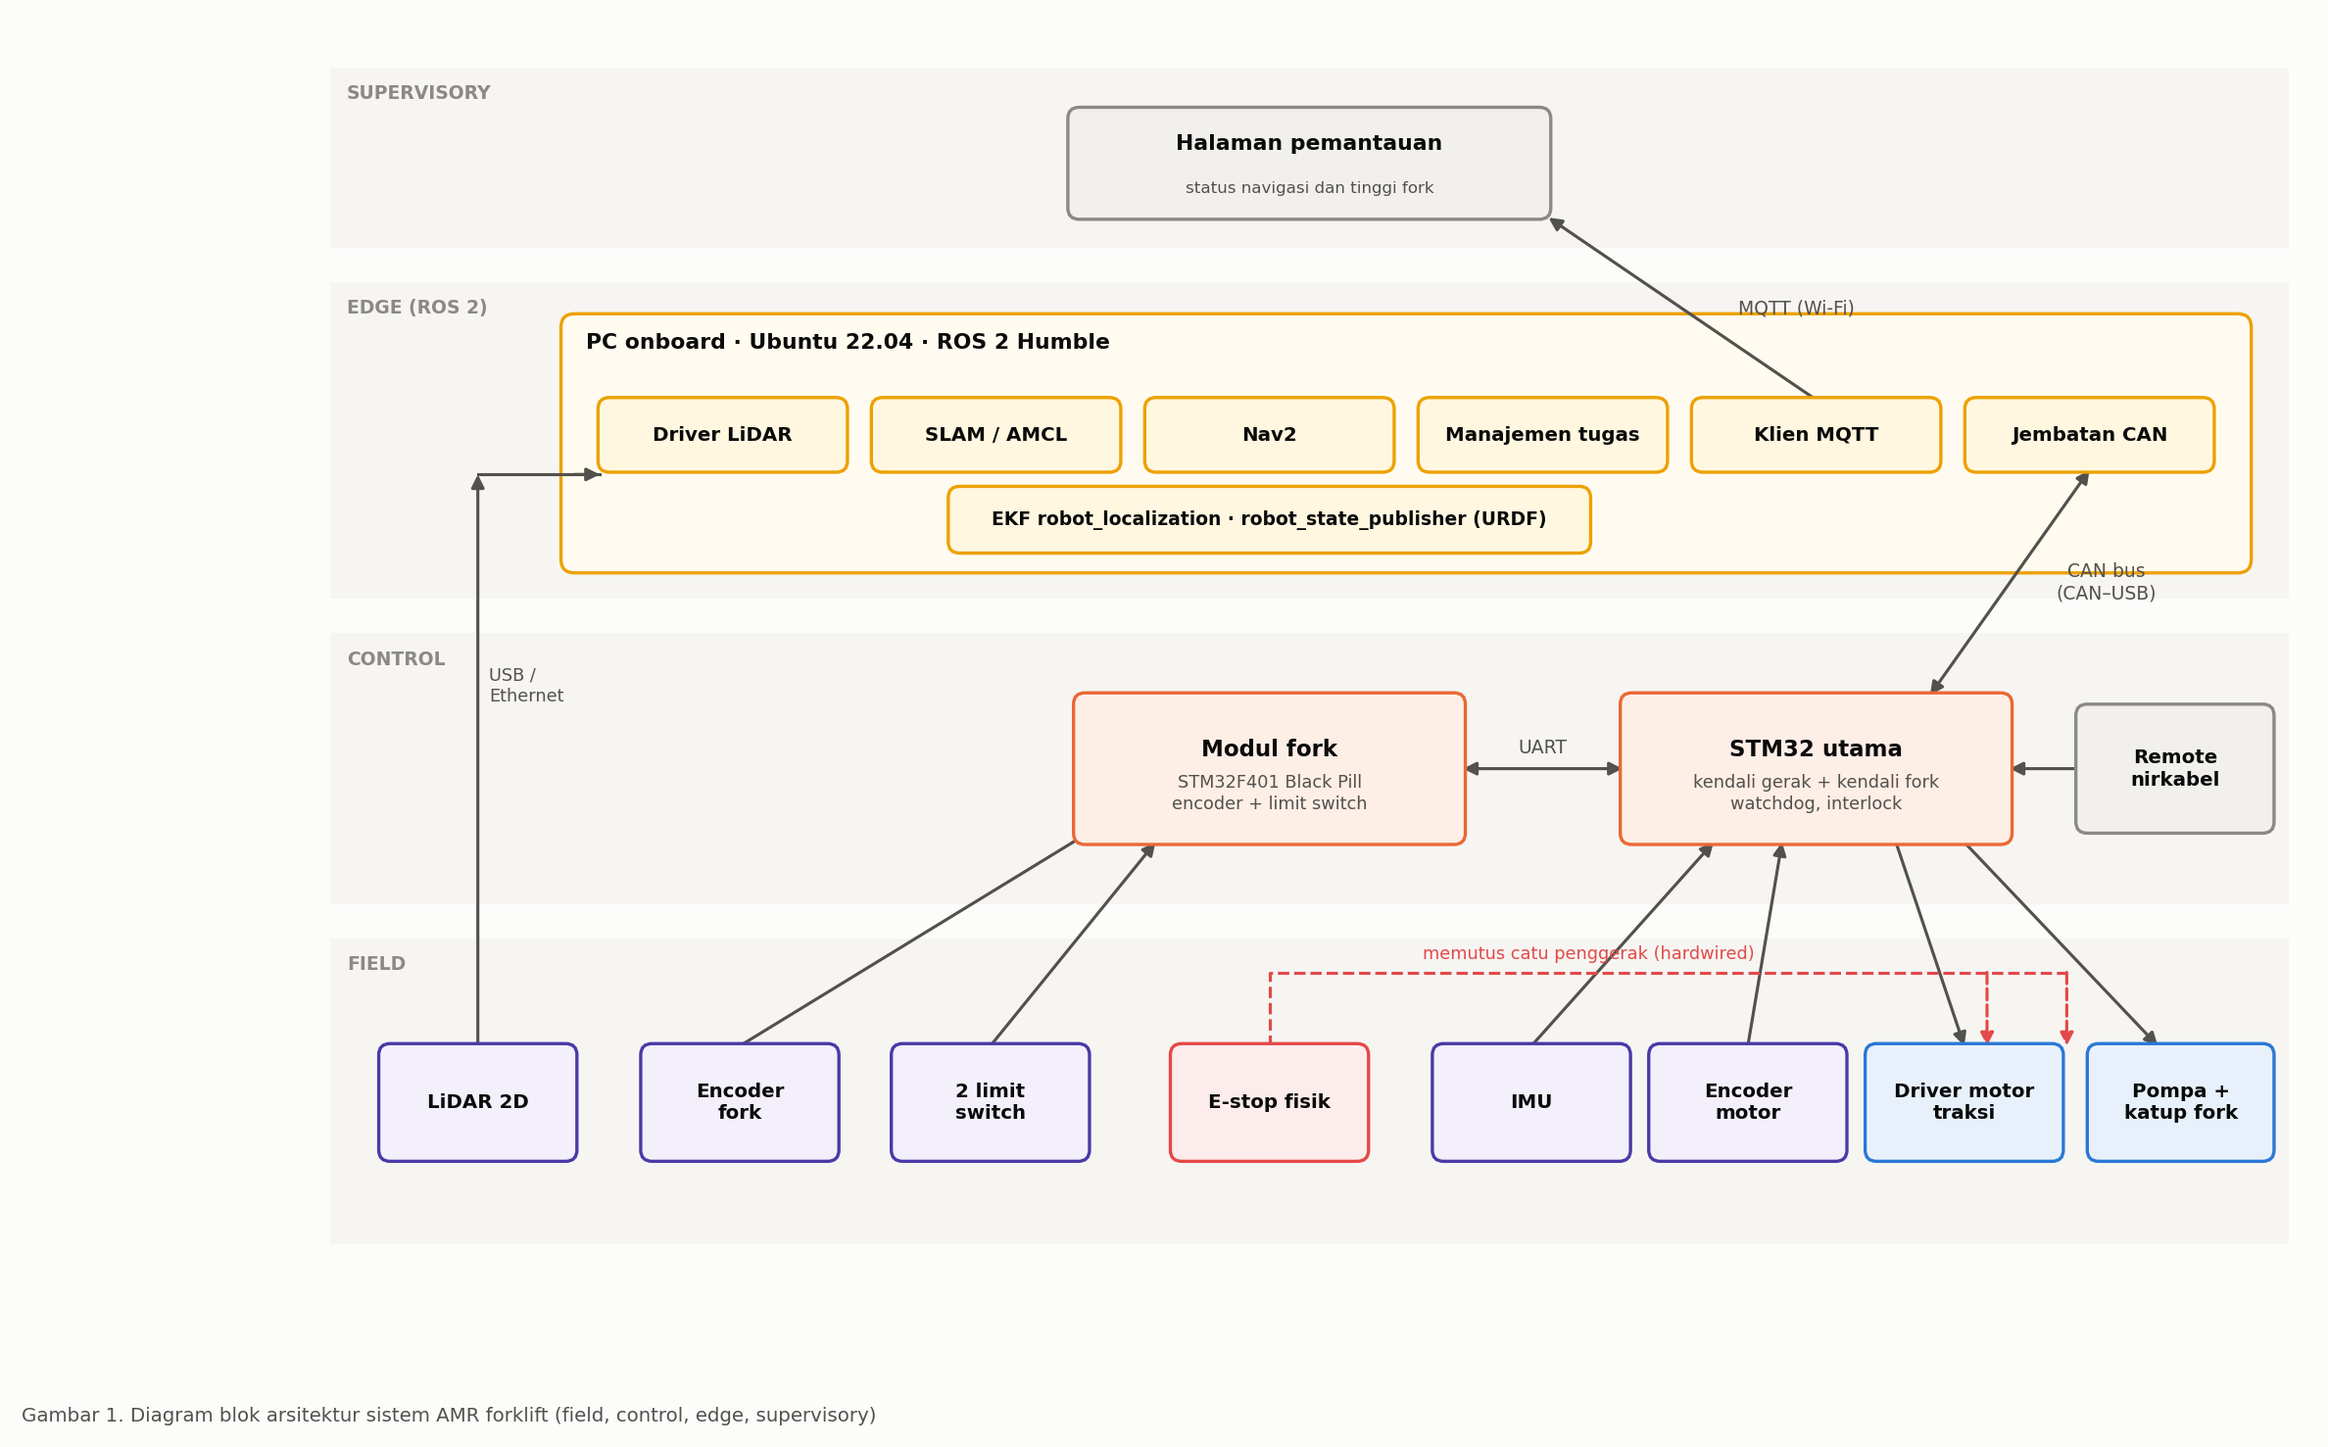
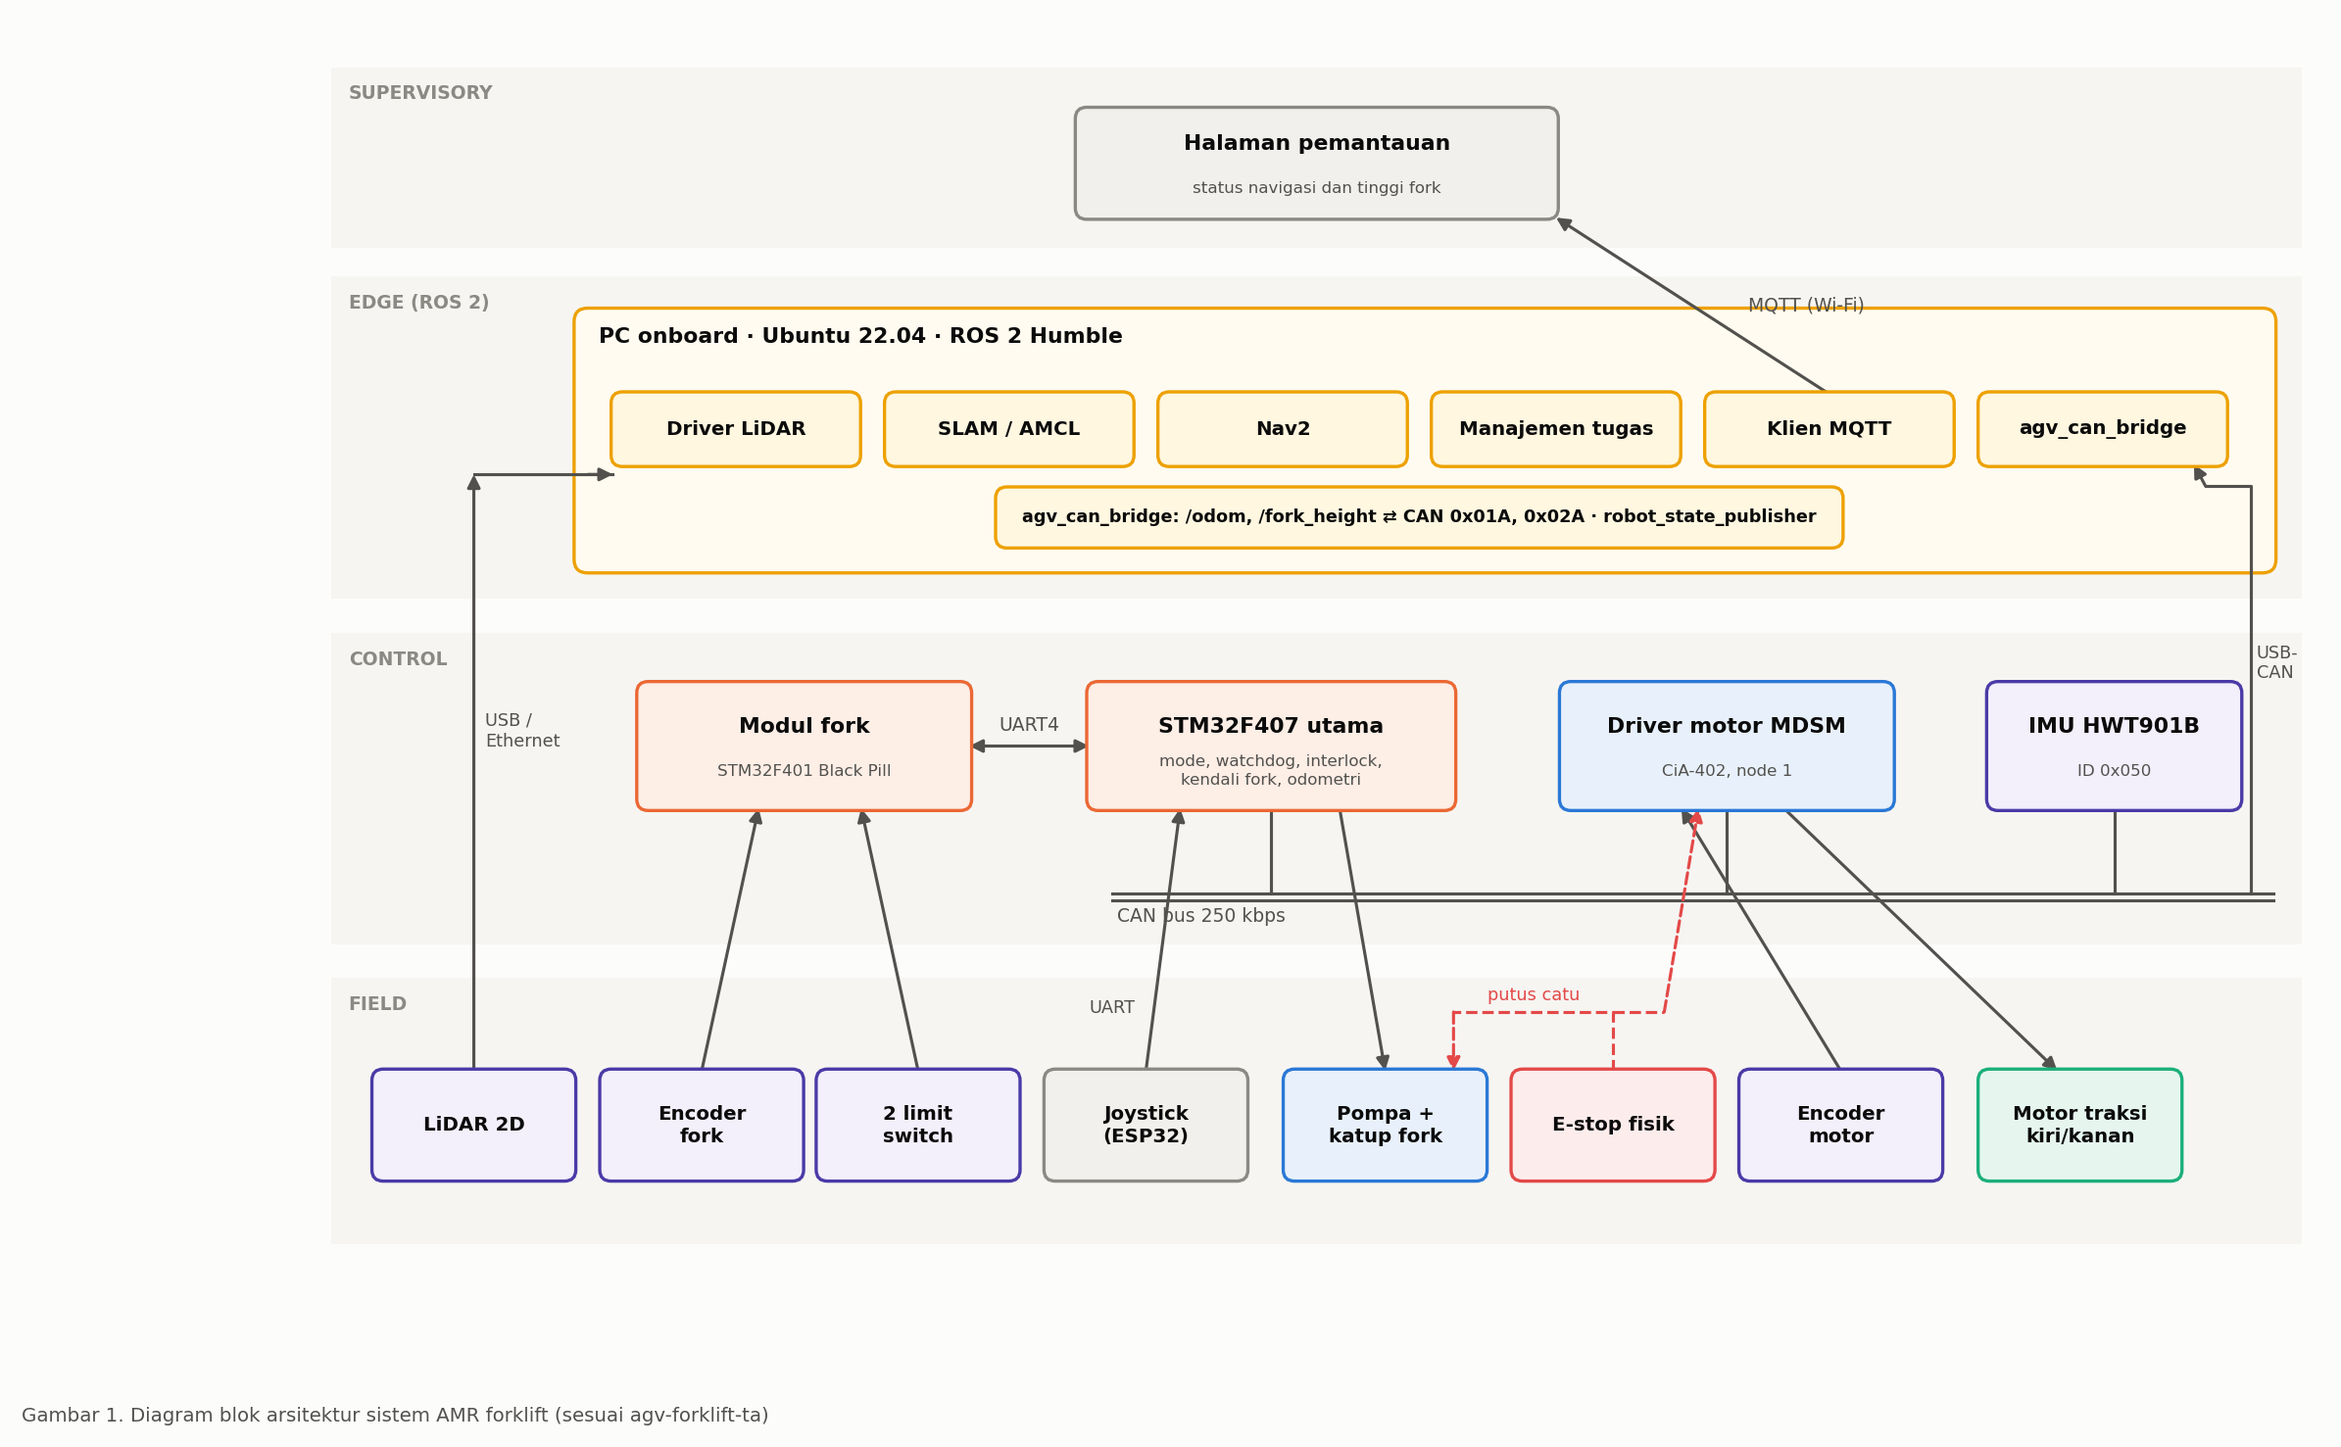
Week 3: sesuaikan dengan agv-forklift-ta (peta ID CAN, driver MDSM kontrol kecepatan sendiri, FAST-LIO/DLIO tidak dipakai)

diff --git a/README.md b/README.md
@@ -31,9 +31,9 @@ Periode 12/10/2026 s.d. 16/10/2026 (tahap Perancangan), sesuai logbook individu 
 
 **Kendala dan solusi:**
 
-1. Format pesan CAN STM32 utama belum diketahui, sehingga decoder `ros2_socketcan` masih memakai ID contoh dan belum diuji di bus forklift. Solusi: identifikasi ID dan format data dengan `candump` di forklift (minggu 4).
-2. FAST-LIO dan DLIO membutuhkan LiDAR 3D, sedangkan forklift memakai LiDAR 2D. Solusi: tetap memakai slam_toolbox, AMCL, dan EKF encoder + IMU; LIO dicatat sebagai opsi pengembangan.
-3. Firmware dan wiring STM32 utama belum diperiksa, sehingga kendali kecepatan per roda (PI) dan jalur IMU/encoder motor di diagram masih asumsi desain. Solusi: periksa firmware dan wiring STM32 utama di minggu 4 sebelum menyusun DED bagian 04–06.
+1. Format pesan CAN STM32 utama belum diketahui, sehingga decoder `ros2_socketcan` masih memakai ID contoh. Solusi: peta ID dan format data diambil dari repositori proyek AGV `agv-forklift-ta` (`agv_can.py`, sumber firmware `can_pc.h`/`can_pc.c`); lihat [Peta ID CAN Forklift](#peta-id-can-forklift).
+2. FAST-LIO dan DLIO membutuhkan LiDAR 3D, sedangkan forklift memakai LiDAR 2D. Solusi: FAST-LIO dan DLIO tidak dipakai; navigasi tetap memakai slam_toolbox dan AMCL dengan odometri roda + giro IMU.
+3. Kendali kecepatan per roda semula diasumsikan berupa PI di STM32 utama. Solusi: driver motor MDSM (CiA-402, Profile Velocity Mode) sudah mengatur kecepatan sendiri, sehingga STM32F407 cukup mengirim setpoint kecepatan (rpm) tiap roda; blok diagram kendali gerak dan arsitektur sistem diperbarui.
 4. Nilai deadband dan luncuran pompa hidrolik untuk kendali fork belum diketahui. Solusi: identifikasi dari uji step fork di minggu 6–7.
 
 **Capaian target:** Tercapai — target (1), (2), dan (3) tercapai.
@@ -74,7 +74,7 @@ ros2 launch ros2_socketcan socket_can_bridge.launch.xml interface:=can0
 - Field `can_msgs/msg/Frame` = `header`, `id`, `is_rtr`, `is_extended`, `is_error`, `dlc`, `data` (`uint8[8]`)
 - Parameter penting = `interface` (bawaan `can0`), `filters` (bawaan `0:0`, artinya semua ID diterima), `receiver_interval_sec` dan `sender_timeout_sec` (bawaan 0,01 s)
 
-Dengan paket ini, node jembatan tidak perlu membuka socket sendiri. Node cukup mengubah `can_msgs/msg/Frame` menjadi topic bermakna, misalnya `/fork/height`:
+Dengan paket ini, node jembatan tidak perlu membuka socket sendiri. Node cukup mengubah `can_msgs/msg/Frame` menjadi topic bermakna, misalnya tinggi fork dari frame `0x42A`:
 
 ```python
 import struct
@@ -84,18 +84,18 @@ from can_msgs.msg import Frame
 from rclpy.node import Node
 from std_msgs.msg import Float32
 
-ID_FORK_HEIGHT = 0x101  # contoh, mengikuti firmware STM32 utama
+ID_TELE_POWER = 0x42A  # STM32F407 -> PC: daya + tinggi fork (u16 mm, byte 6-7)
 
 
 class ForkDecoder(Node):
     def __init__(self):
         super().__init__('fork_decoder')
-        self.pub = self.create_publisher(Float32, 'fork/height', 10)
+        self.pub = self.create_publisher(Float32, 'fork_height', 10)
         self.create_subscription(Frame, 'from_can_bus', self.on_frame, 50)
 
     def on_frame(self, f):
-        if f.id == ID_FORK_HEIGHT and f.dlc >= 2:
-            height_mm = struct.unpack_from('<H', bytes(f.data))[0]
+        if f.id == ID_TELE_POWER and f.dlc >= 8:
+            height_mm = struct.unpack_from('<H', bytes(f.data), 6)[0]
             self.pub.publish(Float32(data=height_mm / 10.0))
 
 
@@ -108,7 +108,33 @@ if __name__ == '__main__':
     main()
 ```
 
-> **Catatan:** Nama launch file, topic, field message, dan parameter di atas sudah dicek dari paket `ros-humble-ros2-socketcan` 1.4.0. Paket belum dipasang dan kode belum diuji di PC onboard maupun bus CAN forklift. ID `0x101` hanya contoh.
+> **Catatan:** Nama launch file, topic, field message, dan parameter di atas sudah dicek dari paket `ros-humble-ros2-socketcan` 1.4.0. Format `0x42A` diambil dari `agv_can.py`. Kode contoh ini belum diuji di bus CAN forklift; di forklift, peran ini sudah dijalankan oleh `agv_can_bridge.py`.
+
+### Peta ID CAN Forklift
+
+Sumber: `agv-forklift-ta/ibe-agv/stm32_firmware/agv_can.py` (mengikuti firmware `Core/Inc/can_pc.h` dan `Core/Src/can_pc.c`). Bus CAN1 250 kbps, ID 11 bit, data *little-endian*. Node PC = 10 (`0x0A`).
+
+**PC → STM32F407**
+
+- `0x00A` ESTOP = `data[0] = 0x55`
+- `0x01A` CMD (50 Hz) = `i16 v` mm/s, `i16 ω` mrad/s, `u8 mode` (1 = jalan), `u8 lampu`, `u8 beacon`, `u8 counter`
+- `0x02A` FORK = `u16` target tinggi dalam mm (firmware membatasi 0–250 cm)
+
+**STM32F407 → PC**
+
+- `0x40A` pose (30 Hz) = `f32 x`, `f32 y`
+- `0x41A` gerak (30 Hz) = `i16 θ`, `i16 yaw`, `i16 v`, `i16 ω` (dibagi 1000)
+- `0x42A` daya (10 Hz) = tegangan, arus, ..., `u16` tinggi fork (mm)
+- `0x43A` status (10 Hz) = flag (motor aktif, perintah PC baru, fork diam, E-stop, kalibrasi IMU), tombol, status pompa fork
+- `0x44A` perintah aktif (30 Hz) = v dan ω yang sedang dijalankan
+- `0x45A` joystick mentah (10 Hz)
+
+**Langsung dari perangkat lain di bus**
+
+- `0x181`, `0x281`, `0x381`, `0x481` = TPDO driver MDSM (node 1): statusword, posisi, torsi, kecepatan roda
+- `0x050` = IMU HWT901B (percepatan, giro, sudut)
+
+Di ROS 2, `agv_can_bridge.py` menerbitkan `/odom` dan `/fork_height`, serta menerima `/cmd_vel_agv` dan `/cmd_fork`.
 
 ### Kondisi Error Bus
 
@@ -124,7 +150,7 @@ ip -details -statistics link show can0
 
 # Pulih otomatis dari bus-off setelah 100 ms
 sudo ip link set can0 down
-sudo ip link set can0 type can bitrate 500000 restart-ms 100
+sudo ip link set can0 type can bitrate 250000 restart-ms 100
 sudo ip link set can0 up
 ```
 
@@ -144,7 +170,7 @@ Log CAN berguna untuk mengembangkan decoder di meja kerja tanpa menyalakan forkl
 Node minggu 2 membuka bus CAN sendiri, lalu mengurai frame di node yang sama. Dengan `ros2_socketcan`, akses bus dipisah ke node resmi, sehingga decoder cukup mengolah `can_msgs/msg/Frame`. Decoder juga bisa diuji dengan rosbag yang berisi `/from_can_bus`.
 
 **Apa yang terjadi jika kabel CAN terlepas saat forklift berjalan?**
-Pengiriman gagal terus sehingga node bisa masuk error passive lalu bus-off. Karena itu STM32 utama perlu watchdog: jika tidak ada perintah gerak dari PC dalam 1 detik, forklift berhenti (SP-09).
+Pengiriman gagal terus sehingga node bisa masuk error passive lalu bus-off. Karena itu STM32 utama punya watchdog: jika perintah `0x01A` dari PC sudah basi, forklift berhenti (target SP-09: ≤ 1 s).
 
 **Kenapa perlu `restart-ms`?**
 Tanpa `restart-ms`, antarmuka yang sudah bus-off tetap mati sampai di-*restart* manual. Dengan `restart-ms 100`, kernel mencoba memulihkan bus otomatis.
@@ -165,7 +191,7 @@ Tanpa `restart-ms`, antarmuka yang sudah bus-off tetap mati sampai di-*restart* 
 
 ### Loosely vs Tightly Coupled
 
-- Loosely coupled = Tiap sensor menghitung hasilnya sendiri, lalu hasilnya digabung. Contoh: EKF `robot_localization` yang direncanakan di forklift
+- Loosely coupled = Tiap sensor menghitung hasilnya sendiri, lalu hasilnya digabung. Contoh: EKF `robot_localization`, atau odometri forklift yang menggabungkan posisi roda dengan arah dari giro IMU
 - Tightly coupled = Data mentah IMU dan titik LiDAR diolah dalam satu estimator. Lebih akurat dan tahan kondisi sulit. FAST-LIO dan DLIO termasuk jenis ini
 
 ### FAST-LIO (HKU MARS Lab)
@@ -184,7 +210,7 @@ Tanpa `restart-ms`, antarmuka yang sudah bus-off tetap mati sampai di-*restart* 
 
 ### Relevansi untuk Forklift
 
-FAST-LIO dan DLIO dirancang untuk **LiDAR 3D** (misalnya Livox atau Ouster). Forklift memakai **LiDAR 2D** yang hanya memindai satu bidang, sehingga tidak ada informasi ketinggian untuk mengoreksi gerak 3D. Untuk proyek ini tetap dipakai slam_toolbox (pemetaan) dan AMCL (lokalisasi) dengan EKF encoder + IMU. FAST-LIO atau DLIO menjadi opsi pengembangan jika LiDAR diganti ke 3D.
+FAST-LIO dan DLIO dirancang untuk **LiDAR 3D** (misalnya Livox atau Ouster). Forklift memakai **LiDAR 2D** yang hanya memindai satu bidang, sehingga tidak ada informasi ketinggian untuk mengoreksi gerak 3D. **Keputusan: FAST-LIO dan DLIO tidak dipakai.** Navigasi tetap memakai slam_toolbox (pemetaan) dan AMCL (lokalisasi), dengan odometri dari posisi roda + giro IMU.
 
 ### Hasil Belajar
 
@@ -262,13 +288,13 @@ Ada dua loop kendali: **kendali ketinggian fork** di STM32 utama, dan **kendali 
 
 ![Blok diagram kendali ketinggian fork](images/kendali-fork.png)
 
-- Referensi r = Target tinggi fork dari ROS 2 (`/fork/target`), dikirim lewat CAN ke STM32 utama
+- Referensi r = Target tinggi fork dari ROS 2 (`/cmd_fork`), dikirim lewat CAN `0x02A` ke STM32F407
 - Error e = r − y
-- Kontroler = Logika on/off dengan deadband dan cutoff prediktif di STM32 utama
+- Kontroler = Logika on/off dengan deadband dan cutoff prediktif di STM32F407
 - Sinyal kendali u = NAIK (pompa ON), TURUN (katup solenoid ON), atau DIAM
 - Plant = Silinder hidrolik dan fork
 - Gangguan = Luncuran pompa: fork masih bergerak sebentar setelah pompa dimatikan (risiko R-03)
-- Umpan balik y = Tinggi fork dari encoder inkremental, dihitung modul fork STM32F401, dikirim lewat UART
+- Umpan balik y = Tinggi fork dari encoder inkremental, dihitung modul fork STM32F401, dikirim lewat UART4; STM32F407 meneruskannya ke ROS 2 di frame `0x42A` (`/fork_height`)
 - Interlock = Limit switch atas melarang NAIK, limit switch bawah melarang TURUN dan menjadi titik nol (homing)
 
 Logika kendali (usulan):
@@ -290,10 +316,11 @@ Nilai deadband, luncuran naik, dan luncuran turun belum diketahui. Nilai ini dii
 ![Blok diagram kendali gerak](images/kendali-gerak.png)
 
 - Loop luar (ROS 2) = Nav2 Planner membuat jalur global, Nav2 Controller menghasilkan `/cmd_vel` (v, ω), `velocity_smoother` membatasi kecepatan ≤ 0,5 m/s
-- Jembatan = `/cmd_vel` dikirim ke STM32 utama lewat CAN
-- Loop dalam (STM32 utama) = Kinematika diferensial mengubah (v, ω) menjadi kecepatan roda, lalu kendali kecepatan per roda menggerakkan driver motor
-- Umpan balik = Encoder motor dan IMU masuk EKF `robot_localization` menjadi `/odom`; LiDAR masuk AMCL/SLAM menjadi pose di peta
-- Keselamatan = Watchdog: tanpa perintah lebih dari 1 s → henti (SP-09); E-stop fisik memutus catu penggerak tanpa perangkat lunak
+- Jembatan = `agv_can_bridge` mengirim `/cmd_vel_agv` sebagai frame CAN `0x01A` (v mm/s, ω mrad/s) 50 Hz ke STM32F407
+- STM32F407 = Kinematika diferensial mengubah (v, ω) menjadi setpoint rpm roda kiri dan kanan, dikirim ke driver lewat CAN (RPDO `0x301`)
+- Loop dalam (driver MDSM) = Driver mengatur kecepatan motor sendiri (CiA-402 Profile Velocity Mode) dengan umpan balik encoder motor
+- Umpan balik = Posisi roda dari TPDO MDSM (`0x281`/`0x481`) dan arah dari giro IMU HWT901B (`0x050`) diolah menjadi `/odom` oleh STM32F407 dan `agv_can_bridge`; LiDAR masuk AMCL/SLAM menjadi pose di peta
+- Keselamatan = Watchdog: perintah PC basi → henti (target SP-09: ≤ 1 s); E-stop fisik memutus catu penggerak tanpa perangkat lunak
 
 Kinematika diferensial, dengan L = jarak antar roda dan r = jari-jari roda:
 
@@ -302,7 +329,7 @@ Kinematika diferensial, dengan L = jarak antar roda dan r = jari-jari roda:
 ωL = (v − ω · L/2) / r
 ```
 
-> **Catatan:** Kendali kecepatan PI per roda adalah usulan. Firmware STM32 utama yang sudah ada belum diperiksa, sehingga perlu dicek apakah driver motor sudah punya loop kecepatan sendiri.
+> **Catatan:** Desain ini sudah disesuaikan dengan firmware di `agv-forklift-ta`: tidak perlu kendali PI kecepatan di STM32, karena driver MDSM sudah mengatur kecepatan sendiri.
 
 ### Hasil Belajar
 
@@ -310,7 +337,7 @@ Kinematika diferensial, dengan L = jarak antar roda dan r = jari-jari roda:
 Pompa hidrolik hanya bisa ON atau OFF (tidak bisa diatur kecepatannya), dan sistem hidrolik utama tidak boleh dimodifikasi (di luar lingkup). Karena itu kendali dibuat on/off dengan deadband dan cutoff prediktif untuk mengatasi luncuran.
 
 **Kenapa kendali gerak dibuat bertingkat?**
-Loop dalam (kecepatan roda) butuh respons cepat dan berjalan di STM32. Loop luar (mengikuti jalur dan menghindari obstacle) butuh peta dan sensor LiDAR, sehingga berjalan di ROS 2. Pemisahan ini juga membuat forklift tetap aman jika PC berhenti, karena watchdog di STM32 menghentikan motor.
+Loop dalam (kecepatan roda) butuh respons cepat dan berjalan di driver MDSM. Loop luar (mengikuti jalur dan menghindari obstacle) butuh peta dan sensor LiDAR, sehingga berjalan di ROS 2. Pemisahan ini juga membuat forklift tetap aman jika PC berhenti, karena watchdog di STM32F407 menghentikan motor.
 
 ---
 
@@ -320,9 +347,9 @@ Loop dalam (kecepatan roda) butuh respons cepat dan berjalan di STM32. Loop luar
 
 Arsitektur disusun berlapis mengikuti template DED:
 
-- Field = LiDAR 2D, IMU, encoder motor, encoder fork, 2 limit switch, E-stop fisik, driver motor traksi, pompa dan katup fork
-- Control = STM32 utama (kendali gerak dan fork, watchdog, interlock), modul fork STM32F401 (UART), remote nirkabel (mode manual)
-- Edge = PC onboard dengan ROS 2 Humble: driver LiDAR, SLAM/AMCL, Nav2, EKF, manajemen tugas, klien MQTT, jembatan CAN
+- Field = LiDAR 2D, encoder fork, 2 limit switch, joystick (ESP32), pompa dan katup fork, E-stop fisik, encoder motor, motor traksi kiri/kanan
+- Control = Bus CAN 250 kbps berisi STM32F407 utama (mode, watchdog, interlock, kendali fork, odometri), driver motor MDSM (CiA-402), dan IMU HWT901B; modul fork STM32F401 terhubung ke STM32F407 lewat UART4; joystick lewat UART
+- Edge = PC onboard dengan ROS 2 Humble: driver LiDAR, SLAM/AMCL, Nav2, manajemen tugas, klien MQTT, `agv_can_bridge` (adapter USB-CAN)
 - Supervisory = Halaman pemantauan lewat MQTT (Wi-Fi)
 
 Draf DED bagian 01–03 disusun dari template departemen (`PJBL7-K1-DED`, revisi 00, status DRAF):
@@ -339,7 +366,7 @@ Bagian 04–10 (desain hardware, software, flowchart, rencana uji, keselamatan, 
 
 Minggu 4, sesuai rencana di logbook minggu 3:
 
-- Identifikasi format pesan CAN STM32 utama di forklift dengan `candump`
+- Verifikasi frame CAN di bus forklift dengan `candump`, dibandingkan dengan peta ID dari `agv_can.py`
 - Driver LiDAR: `/scan` tampil di RViz
 - Kalibrasi fork titik 200 cm dan putaran turun
 - Perbaikan label limit switch di skematik
